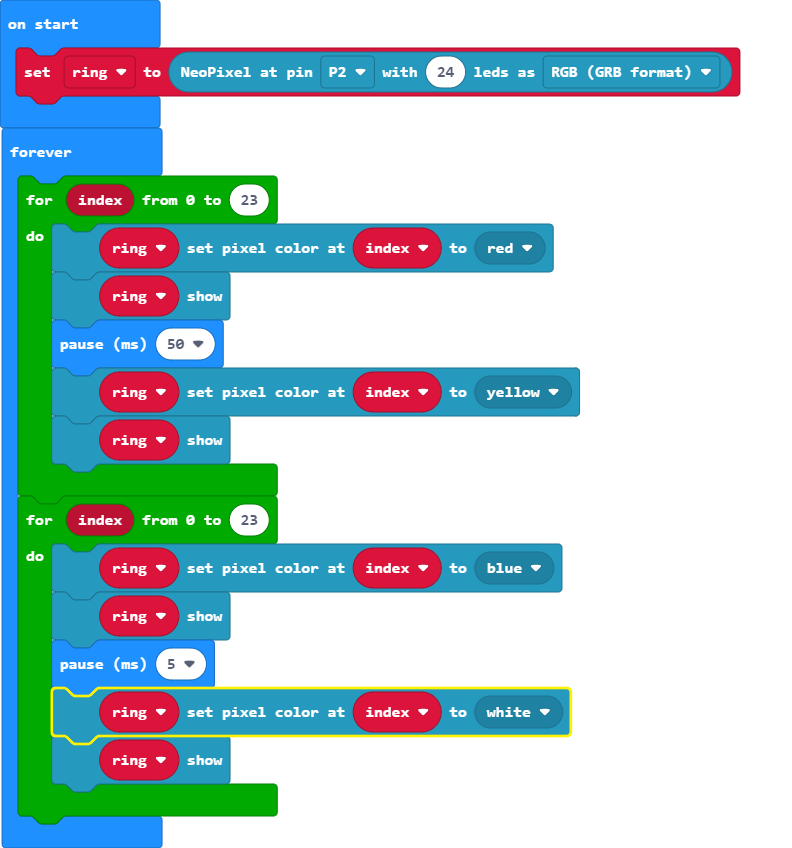
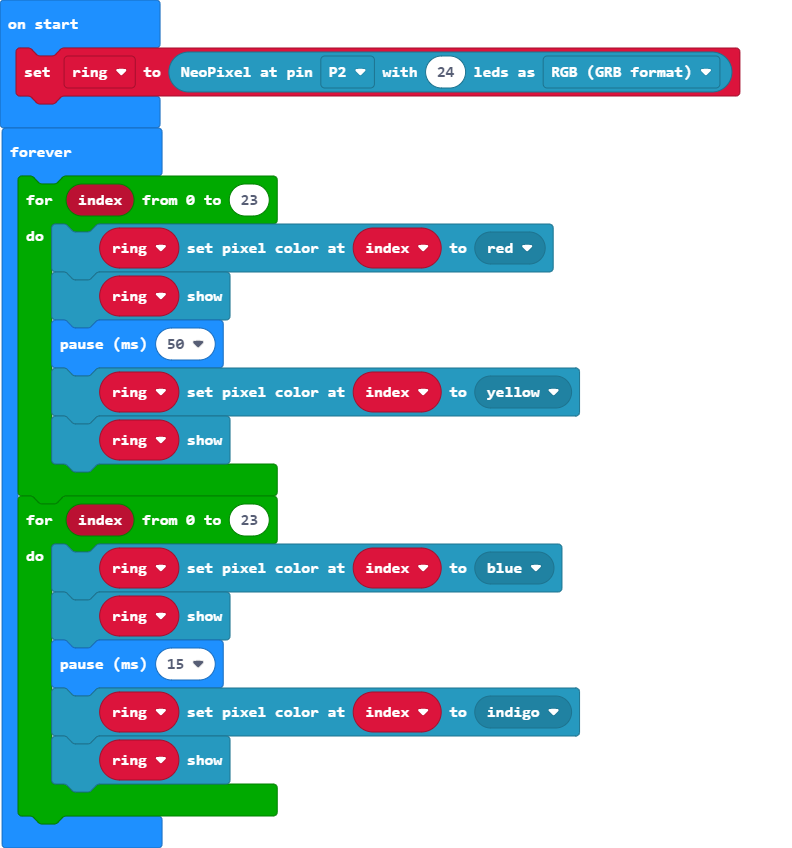
adding rings

Changed region(s): [[0.0606, 0.7358, 0.7576, 0.8892]]

diff --git a/main.ts b/main.ts
@@ -10,8 +10,8 @@ basic.forever(function () {
     for (let index = 0; index <= 23; index++) {
         ring.setPixelColor(index, neopixel.colors(NeoPixelColors.Blue))
         ring.show()
-        basic.pause(5)
-        ring.setPixelColor(index, neopixel.colors(NeoPixelColors.White))
+        basic.pause(15)
+        ring.setPixelColor(index, neopixel.colors(NeoPixelColors.Indigo))
         ring.show()
     }
 })
